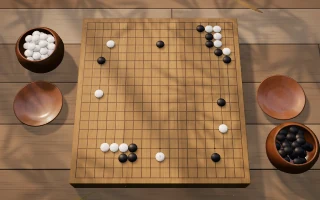
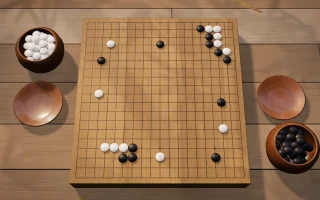
Leaf shadow in the bamboo garden stays readable: over the board the shade under the leaves keeps at least 64 % of the sun, so the lines darken by 23 % at most at any hour instead of 45 %, while the planks around keep the deep dappled light; the hanok lattice and the cherry blossom already stayed wit

diff --git a/src/board3d/scenes/bambous.ts b/src/board3d/scenes/bambous.ts
@@ -12,15 +12,18 @@ export interface Canopy {
   near: number; far: number
   /** Leaf length scale (1 = 110–200 mm on the board). */
   scale: number
-  /** Light left in a leaf's shadow (cookie value, linear): the readability floor. */
-  floor: number
+  /** Light left in a leaf's shadow (cookie value, linear) on the planks around the board, and over the board itself
+   *  (the readability floor there, raised smoothly over ~250 mm round it so no edge shows). */
+  floor: number; boardFloor: number
   /** Sway (cookie px at 512) and the slowest/fastest sway periods (s). */
   sway: number; tMin: number; tMax: number
   /** Stems' shadows across the light. */
   stems: number
 }
-// variant B of the grid (denser shade, brighter sun patches); floor 0.24 darkens the board by 22–23 % at most (measured)
-export const CANOPY: Canopy = { near: 110, far: 60, scale: 0.7, floor: 0.24, sway: 5, tMin: 6, tMax: 10, stems: 2 }
+// variant B of the grid (denser shade, brighter sun patches). Measured (cookie vs open window, 99th percentile over the
+// free intersections, worst of five moments): a 0.24 floor everywhere darkened the board by 38–45 %; lifted to 0.64
+// over the board it stays ≤ 25 % at every hour while the planks keep the deep dapple
+export const CANOPY: Canopy = { near: 110, far: 60, scale: 0.7, floor: 0.24, boardFloor: 0.64, sway: 5, tMin: 6, tMax: 10, stems: 2 }
 
 const S = 512 // cookie size: it spans the shoji spot's 3200 mm at the board, 6.25 mm a pixel
 
@@ -64,6 +67,8 @@ export function canopy(c: Canopy = CANOPY) {
   // culms far above: long soft bars (2 px penumbra), each pre-blurred once across its width
   const bars = stems.map(s => sprite(Math.ceil(s.w) + 16, 2 * S, 0, x => x.fillRect((Math.ceil(s.w) + 16 - s.w) / 2, 0, s.w, 2 * S)))
   bars.forEach(b => blurCanvas(b, 2, 3, 'x'))
+  // the board's half diagonal is ~310 mm (50 px; the oblique sun only shrinks it in the cookie, the blur widens it), the lift is whole to 390 mm and fades out by 650 mm
+  let lift: CanvasGradient | null = null
   return (x: CanvasRenderingContext2D, t: number) => {
     x.globalCompositeOperation = 'source-over'; x.fillStyle = '#fff'; x.fillRect(0, 0, S, S)
     x.globalCompositeOperation = 'darken'
@@ -81,7 +86,11 @@ export function canopy(c: Canopy = CANOPY) {
       const [px, py, a] = at(w)
       for (const [da, k] of w.leaves) { const b = a + da; x.setTransform(Math.cos(b) * k, Math.sin(b) * k, -Math.sin(b) * k, Math.cos(b) * k, px, py); x.drawImage(leaf, -2, -4) }
     }
-    x.setTransform(1, 0, 0, 1, 0, 0); x.globalCompositeOperation = 'source-over'
+    // over the board the shade never goes below boardFloor (lighten = max): the lines stay readable under the leaves
+    x.setTransform(1, 0, 0, 1, 0, 0); x.globalCompositeOperation = 'lighten'
+    if (!lift) { const b = Math.round(255 * c.boardFloor); lift = x.createRadialGradient(S / 2, S / 2, 62, S / 2, S / 2, 104); lift.addColorStop(0, `rgb(${b},${b},${b})`); lift.addColorStop(1, '#000') }
+    x.fillStyle = lift; x.fillRect(0, 0, S, S)
+    x.globalCompositeOperation = 'source-over'
   }
 }
 

diff --git a/src/board3d/scenes/hanok.ts b/src/board3d/scenes/hanok.ts
@@ -16,7 +16,7 @@ const FLOOR = { rgb: [204, 174, 126], rough: 0.4 } // honey: the floor's colour 
  * The door's light (linear, white = full light): wooden bars leave light behind them (the hanji around them glows),
  * the paper softens every edge and adds its own faint cloudiness. Ttisal: fine vertical slats, a group of three
  * horizontal ones every ~780 mm (top, middle, bottom of a door); the stiles between door leaves darker. On the board a
- * bar darkens it by ≤ 25 % (measured: 1st percentile 24.6 % at the afternoon, shoji 0.45).
+ * bar darkens it by ≤ 25 % (measured, cookie vs open window, 99th percentile over the free intersections: 17–20 %).
  */
 function latticeCookie(S = 1024) {
   const k = S / COOKIE_MM, cv = canvas(S), x = cv.getContext('2d')!, tmp = canvas(S), t = tmp.getContext('2d')!, r = rng(7)

diff --git a/src/board3d/scenes/bambous.test.ts b/src/board3d/scenes/bambous.test.ts
@@ -4,7 +4,9 @@ import { CANOPY, gust } from './bambous'
 
 describe('bamboo garden', () => {
   it('keeps the leaf shade readable and the sway calm', () => {
-    // measured on renders: a 0.24 floor with 80 % of the key through the leaves darkens the board by ≤ 23 % (cap 25 %)
+    // measured on renders (cookie vs open window, 99th percentile over free intersections): with 80 % of the key through
+    // the leaves, a 0.64 floor over the board darkens it by ≤ 23 % (cap 25 %); 0.24 there gave 38–45 %
+    expect(CANOPY.boardFloor).toBeGreaterThanOrEqual(0.62)
     expect(CANOPY.floor).toBeGreaterThanOrEqual(0.22)
     expect(look.shoji).toBeLessThanOrEqual(0.8)
     expect(CANOPY.tMin).toBeGreaterThanOrEqual(6); expect(CANOPY.tMax).toBeLessThanOrEqual(10)

diff --git a/src/board3d/scenes/hanami.ts b/src/board3d/scenes/hanami.ts
@@ -20,6 +20,7 @@ export interface Bloom {
   /** The park backdrop's turn (rad): where its low pink sun glows behind the trees. */
   parkRot: number
 }
+// measured (cookie vs open window, 99th percentile over the free intersections, worst of five moments): 18–21 % (cap 25 %)
 export const BLOOM: Bloom = { clusters: 170, floor: 0.46, branchFloor: 0.4, sway: 2.5, tMin: 14, tMax: 22, crisp: 1, parkRot: 1.9 }
 
 const S = 512 // the cookie spans the shoji spot's 3200 mm across the light (6.25 mm a pixel; ~10 mm on the board, seen obliquely)
